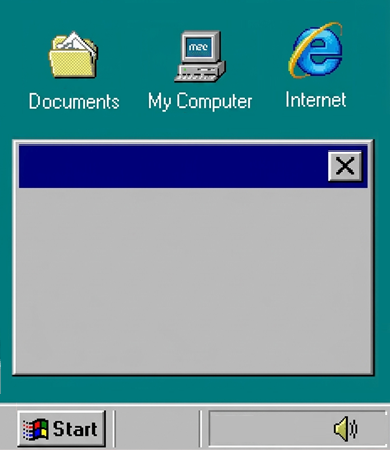
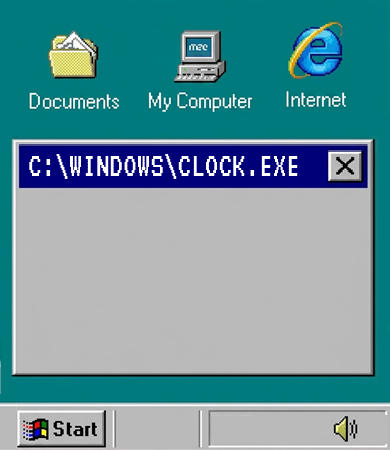
win 98 font

Changed region(s): [[0.0615, 0.3422, 0.7692, 0.4044]]

diff --git a/win98/watchface/index.js b/win98/watchface/index.js
@@ -1,7 +1,23 @@
-import { createWidget, widget, align, prop, system_status } from '@zos/ui'
+import { createWidget, widget, prop, system_status } from '@zos/ui'
 import { Time, Battery, HeartRate } from '@zos/sensor'
 
 const pad = (n) => String(n).padStart(2, '0')
+
+// cifre VT323 pre-renderizzate come PNG (il font TTF sul device si rompe):
+// t/ orario 48×67, d/ data 16×29, s/ taskbar 10×15
+const NOMI = { ':': 'colon', '/': 'slash', '%': 'pct', '-': 'dash', ' ': 'blank' }
+
+// riga di n immagini monospazio; set(testo) aggiorna i caratteri
+const riga = (dir, n, x, y, cw) => {
+  const imgs = []
+  for (let i = 0; i < n; i++) {
+    imgs.push(createWidget(widget.IMG, { x: x + i * cw, y, src: `${dir}/blank.png` }))
+  }
+  return (testo) => {
+    const t = testo.padEnd(n, ' ')
+    imgs.forEach((img, i) => img.setProperty(prop.SRC, `${dir}/${NOMI[t[i]] || t[i]}.png`))
+  }
+}
 
 WatchFace({
   build() {
@@ -10,44 +26,20 @@ WatchFace({
     let hr = null
     try { hr = new HeartRate() } catch (_) {}
 
-    // sfondo desktop win98
+    // sfondo desktop win98 (il titolo C:\WINDOWS\CLOCK.EXE è già stampato nella barra blu)
     createWidget(widget.IMG, {
       x: 0, y: 0,
       w: 390, h: 450,
       src: 'win98.png'
     })
 
-    // titolo finestra — percorso nella barra blu, prima della X
-    createWidget(widget.TEXT, {
-      x: 28, y: 146, w: 296, h: 42,
-      color: 0xFFFFFF, text_size: 34,
-      font: 'VT323-Regular.ttf',
-      align_h: align.LEFT, align_v: align.CENTER_V,
-      text: 'C:\\WINDOWS\\CLOCK.EXE'
-    })
-
-    // orario grande — nel corpo grigio della finestra
-    const orario = createWidget(widget.TEXT, {
-      x: 20, y: 196, w: 346, h: 120,
-      color: 0x000000, text_size: 120,
-      font: 'VT323-Regular.ttf',
-      align_h: align.CENTER_H, align_v: align.CENTER_V,
-      text: ''
-    })
-
-    // data — sotto l'orario
-    const data = createWidget(widget.TEXT, {
-      x: 20, y: 312, w: 346, h: 44,
-      color: 0x000000, text_size: 40,
-      font: 'VT323-Regular.ttf',
-      align_h: align.CENTER_H, align_v: align.CENTER_V,
-      text: ''
-    })
+    // orario grande + data sotto — centrati nel corpo grigio (x 20–366, y 188–372)
+    const orario = riga('t', 5, 73, 223, 48)
+    const data = riga('d', 10, 113, 308, 16)
 
     const aggiornaOra = () => {
-      orario.setProperty(prop.TEXT, `${pad(time.getHours())}:${pad(time.getMinutes())}`)
-      data.setProperty(prop.TEXT,
-        `${pad(time.getDate())}/${pad(time.getMonth())}/${time.getFullYear()}`)
+      orario(`${pad(time.getHours())}:${pad(time.getMinutes())}`)
+      data(`${pad(time.getDate())}/${pad(time.getMonth())}/${time.getFullYear()}`)
     }
 
     aggiornaOra()
@@ -59,17 +51,12 @@ WatchFace({
       src: 'heart.png'
     })
 
-    const bpmTxt = createWidget(widget.TEXT, {
-      x: 151, y: 415, w: 46, h: 28,
-      color: 0x000000, text_size: 26,
-      font: 'VT323-Regular.ttf',
-      align_h: align.LEFT, align_v: align.CENTER_V,
-      text: ''
-    })
+    const bpmTxt = riga('s', 3, 151, 422, 10)
 
     const aggiornaBpm = () => {
-      const bpm = hr ? hr.getCurrent() : 0
-      bpmTxt.setProperty(prop.TEXT, bpm > 0 ? `${bpm}` : '--')
+      let bpm = 0
+      try { bpm = hr ? hr.getCurrent() : 0 } catch (_) {}
+      bpmTxt(bpm > 0 ? `${bpm}` : '--')
     }
 
     aggiornaBpm()
@@ -84,17 +71,11 @@ WatchFace({
     })
 
     // percentuale batteria — a destra dell'icona
-    const batTxt = createWidget(widget.TEXT, {
-      x: 264, y: 415, w: 92, h: 28,
-      color: 0x000000, text_size: 26,
-      font: 'VT323-Regular.ttf',
-      align_h: align.LEFT, align_v: align.CENTER_V,
-      text: ''
-    })
+    const batTxt = riga('s', 4, 264, 422, 10)
 
     const aggiornaBat = () => {
       const level = battery.getCurrent()
-      batTxt.setProperty(prop.TEXT, `${level}%`)
+      batTxt(`${level}%`)
       const notches = level >= 76 ? 4 : level >= 51 ? 3 : level >= 26 ? 2 : level >= 1 ? 1 : 0
       batIcon.setProperty(prop.SRC, `bat${notches}.png`)
     }
